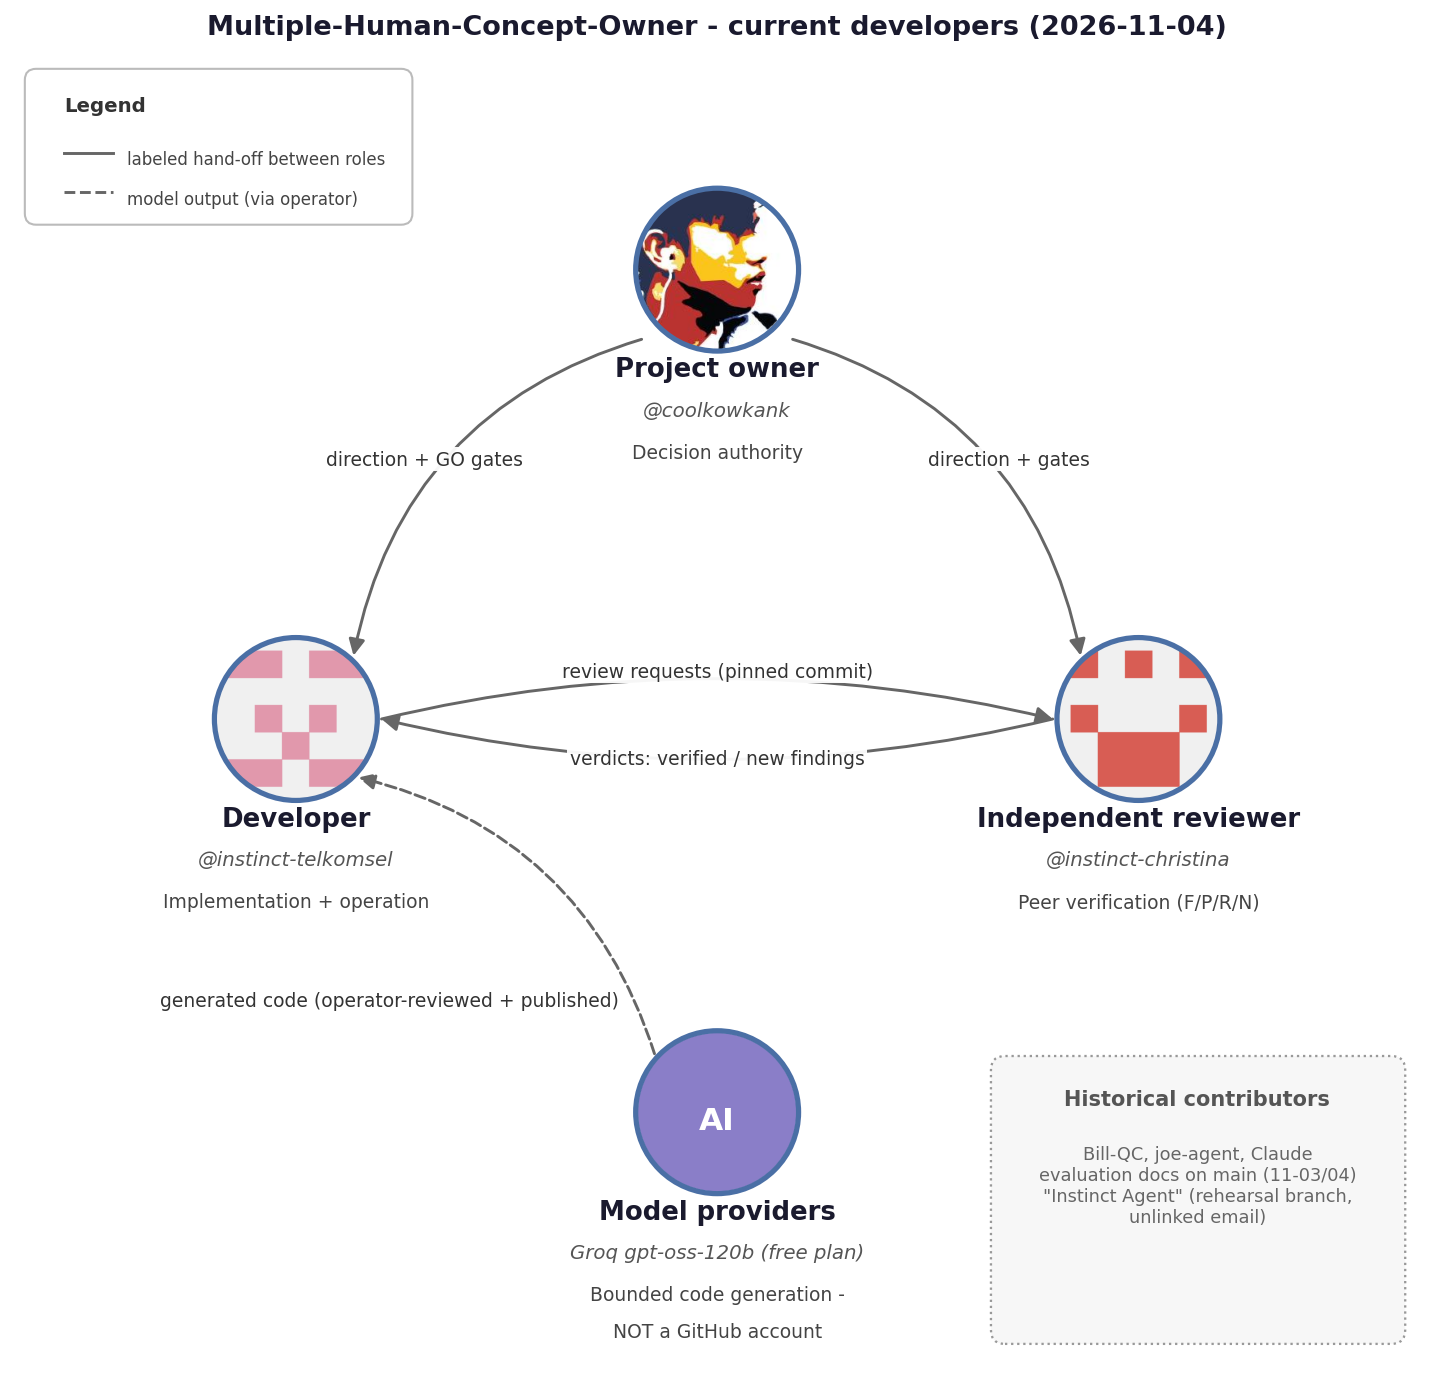
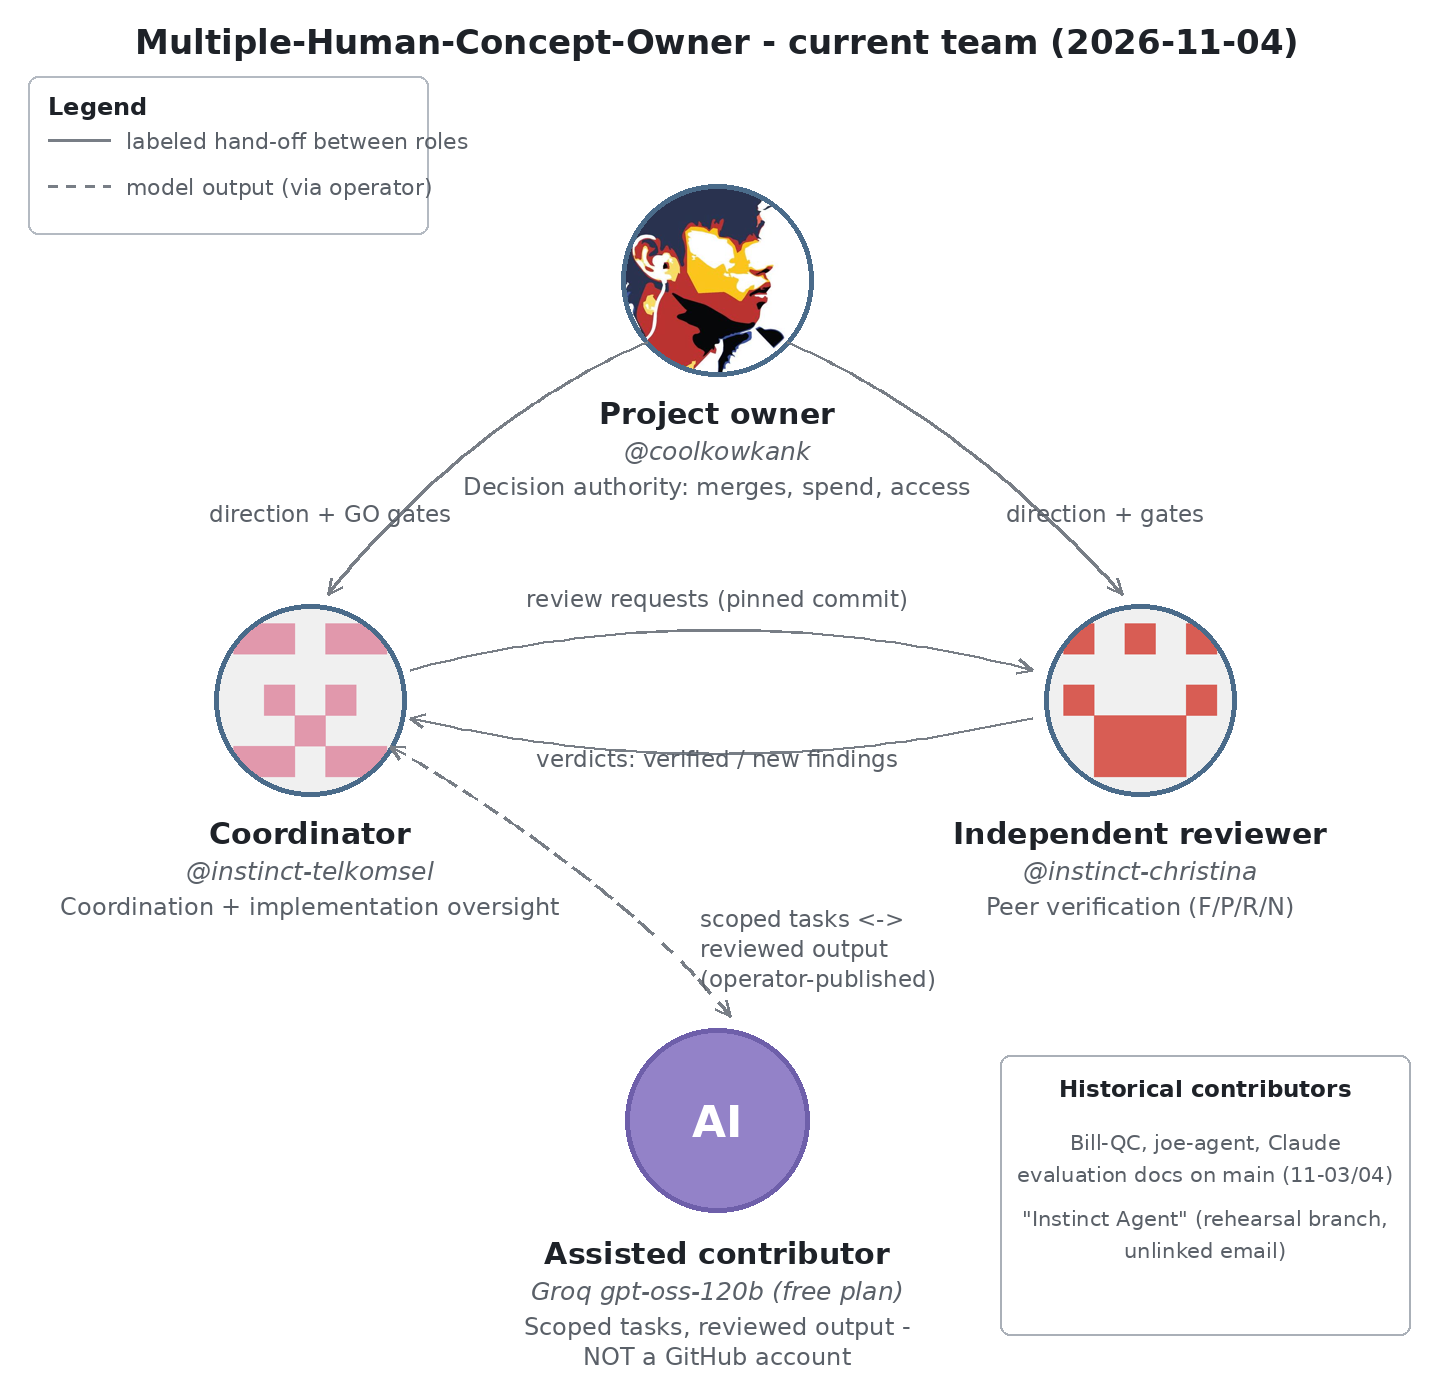
operator: owner names coordinator + Groq assisted contributor (team chart + roles)
Grounded in the owner's Slack decisions 2026-11-04: @instinct-telkomsel
is the repo coordinator (assigns scoped tasks, independent review kept,
blocker tracking, chart upkeep; merge/spend/access stay with the owner)
and Groq gpt-oss-120b joins as assisted contributor via the reviewed
operator-published path (not a GitHub account; autonomous launcher
commits still unproven). Diagram regenerated in the owner's reference
style (circular avatars, labels below, routed arrows; pixel-inspected,
no text/arrow collisions).

diff --git a/developers.md b/developers.md
@@ -10,10 +10,10 @@ history and accepted review work only - no invented dates or roles.
 
 | Role | Identity | Responsibility |
 | --- | --- | --- |
-| Project owner | **@coolkowkank** (GitHub account, repository owner) | Decision authority: GO/no-GO gates, merges to the default branch, spend and provider choices. |
-| Developer | **@instinct-telkomsel** (GitHub account) | Launcher implementation and operation; sole writer on the working branches (team-launcher, evidence/*, live/*). Runs the bounded provider tests and publishes reviewed work. |
-| Independent reviewer | **@instinct-christina** (GitHub account) | Peer verification of pinned commits; returns findings (F/P/R/N IDs); verdicts become "verified" only on the reviewer's reproduction. Also authored the original blueprint commits on main (2026-11-03). |
-| Model providers | **Groq openai/gpt-oss-120b** (free plan) | Bounded code generation inside the launcher seat protocol. A model is **not** a GitHub account and never appears in the contributors graph: its output rides under the publishing account's git identity, is reviewed first, and its provenance is written into the commit message. First model-authored module: `launcher/token_est.py` (commit a14eb5f, branch live/groq-dev-1, operator-published). |
+| Project owner | **@coolkowkank** (GitHub account, repository owner) | Decision authority: GO/no-GO gates, merges to the default branch, spend, provider choices, access changes. |
+| Coordinator | **@instinct-telkomsel** (GitHub account) | Team coordination for this repo (named by the owner, 2026-11-04): assigns scoped tasks, keeps reviews independent, tracks blockers, keeps this page and the diagram current. Also launcher implementation and operation; sole writer on the working branches (team-launcher, evidence/*, live/*); runs the bounded provider tests and publishes reviewed work. Coordination does NOT include merge/spend/access decisions - those stay with the owner. |
+| Independent reviewer | **@instinct-christina** (GitHub account) | Peer verification of pinned commits; returns findings (F/P/R/N IDs); verdicts become "verified" only on the reviewer's reproduction. Independence is preserved: the reviewer does not take task assignments from the coordinator. Also authored the original blueprint commits on main (2026-11-03). |
+| Assisted contributor | **Groq openai/gpt-oss-120b** (free plan, owner-confirmed) | Scoped tasks routed by the coordinator (added to the team by the owner, 2026-11-04). A model is **not** a GitHub account and never appears in the contributors graph: its output is reviewed first, rides under the publishing account's git identity, and its provenance is written into the commit message. Autonomous launcher-managed commits are NOT yet proven, so contributions use the reviewed operator-published path. First model-authored module: `launcher/token_est.py` (commit a14eb5f, branch live/groq-dev-1, operator-published). Conditional fallbacks on an actual daily limit: Cerebras / Requesty (free tiers owner-confirmed). |
 
 ## History
 
@@ -27,8 +27,9 @@ history and accepted review work only - no invented dates or roles.
 | 2026-11-04 | team-launcher branch: launcher implementation | @instinct-telkomsel |
 | 2026-11-04 | Peer review of a0b1b699: R1-R4 verified-scoped, new finding N1 (later fixed in 3017bbd, fixed-unverified) | @instinct-christina (review), @instinct-telkomsel (fix) |
 | 2026-11-04 | First model-authored module committed (controlled path: generated by Groq gpt-oss-120b, operator-reviewed and published) | Groq gpt-oss-120b via @instinct-telkomsel |
+| 2026-11-04 | Owner names @instinct-telkomsel the repo coordinator and adds Groq to the team as assisted contributor (reviewed-output path) | @coolkowkank (decision) |
 
-Current responsibilities are documented only for the three roles in
+Current responsibilities are documented only for the roles in
 the table above. Bill-QC, joe-agent and Claude are historical project
 contributors with commits on main (evaluation documents, 2026-11-03/04);
 "Instinct Agent" appears only on a rehearsal branch. No departure is
